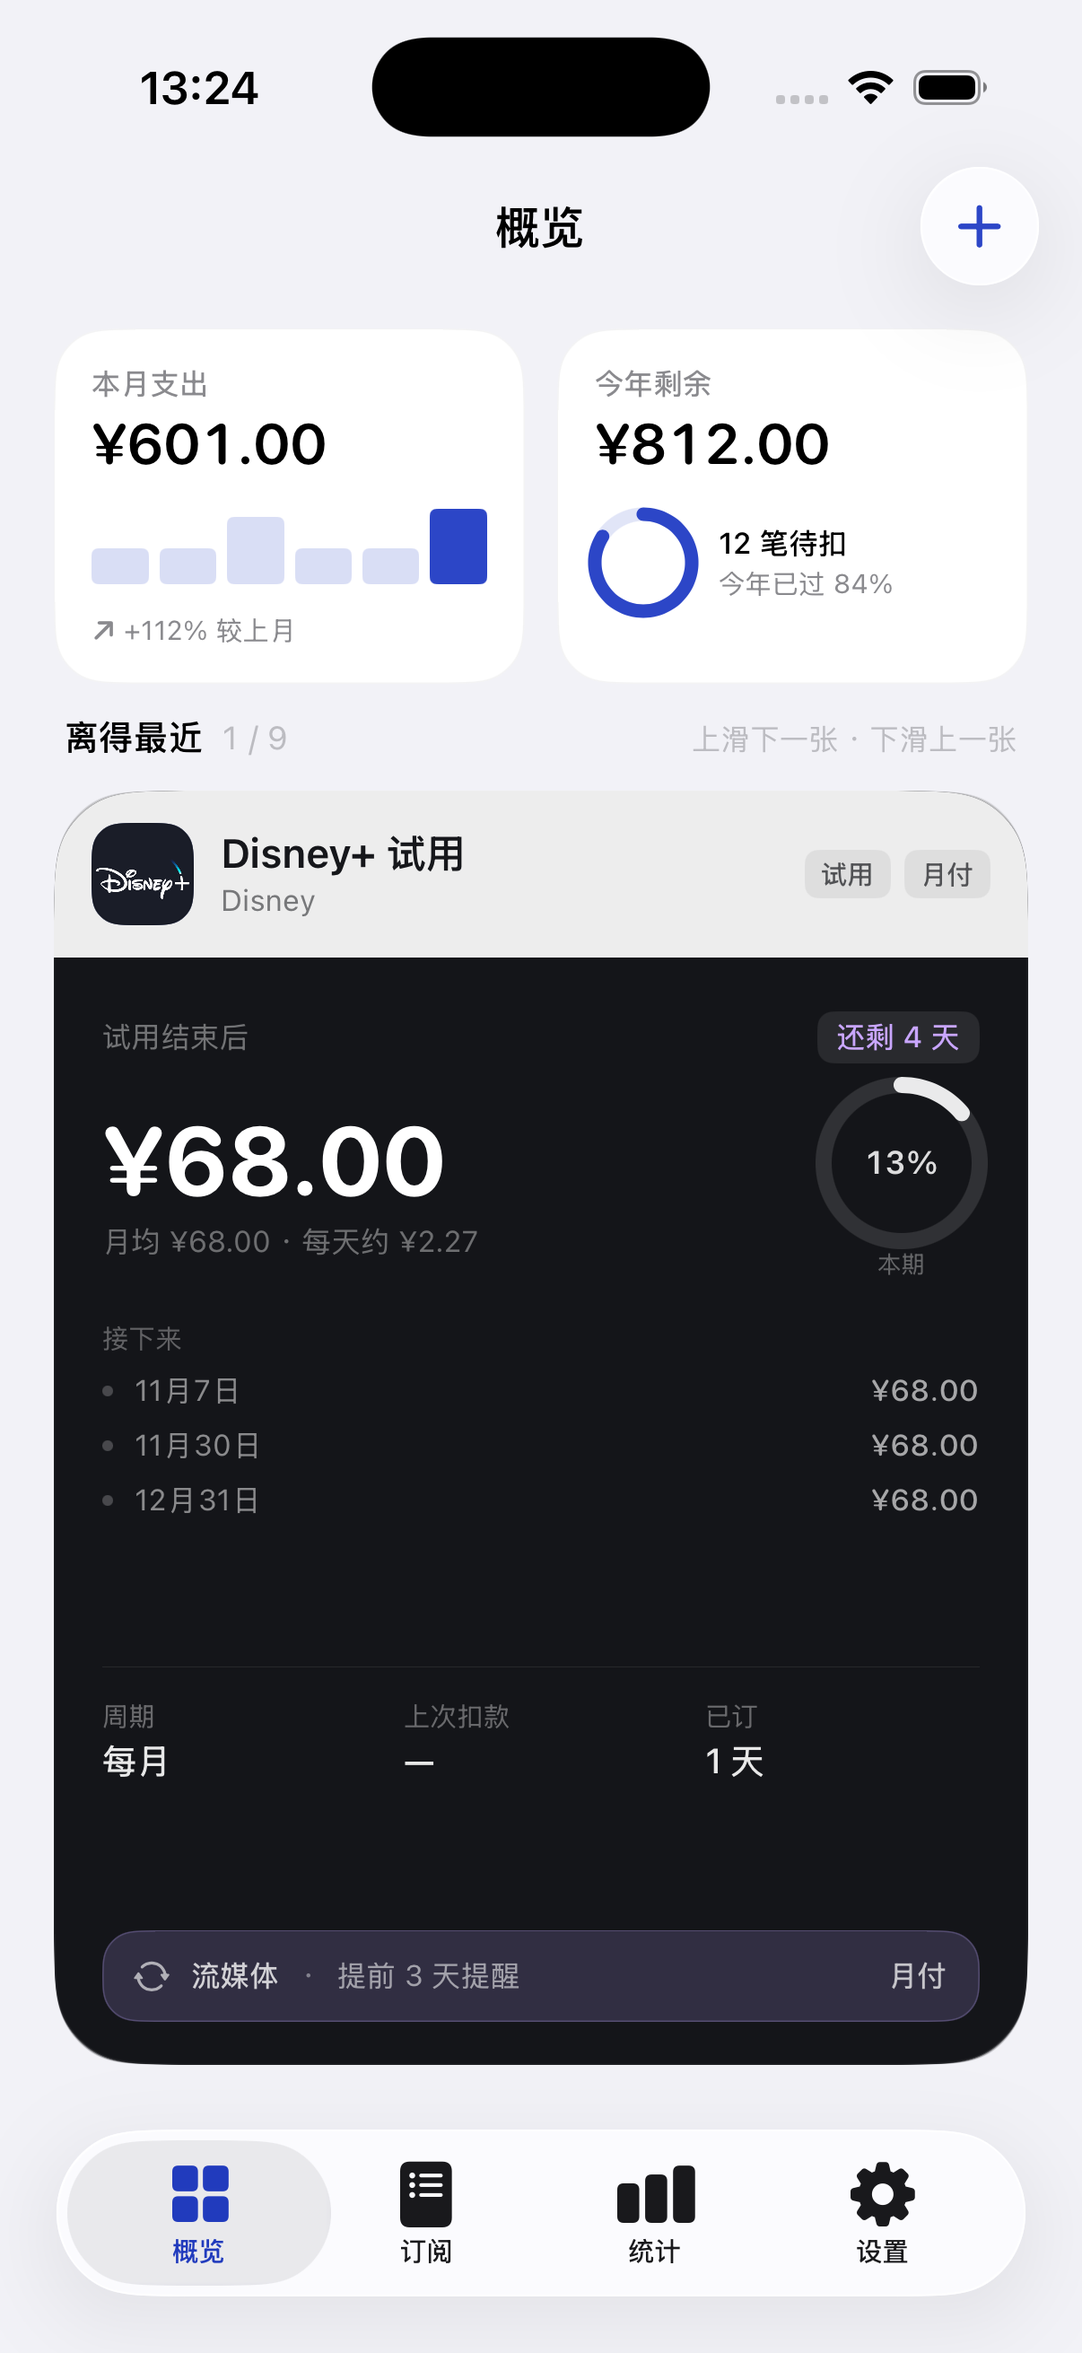
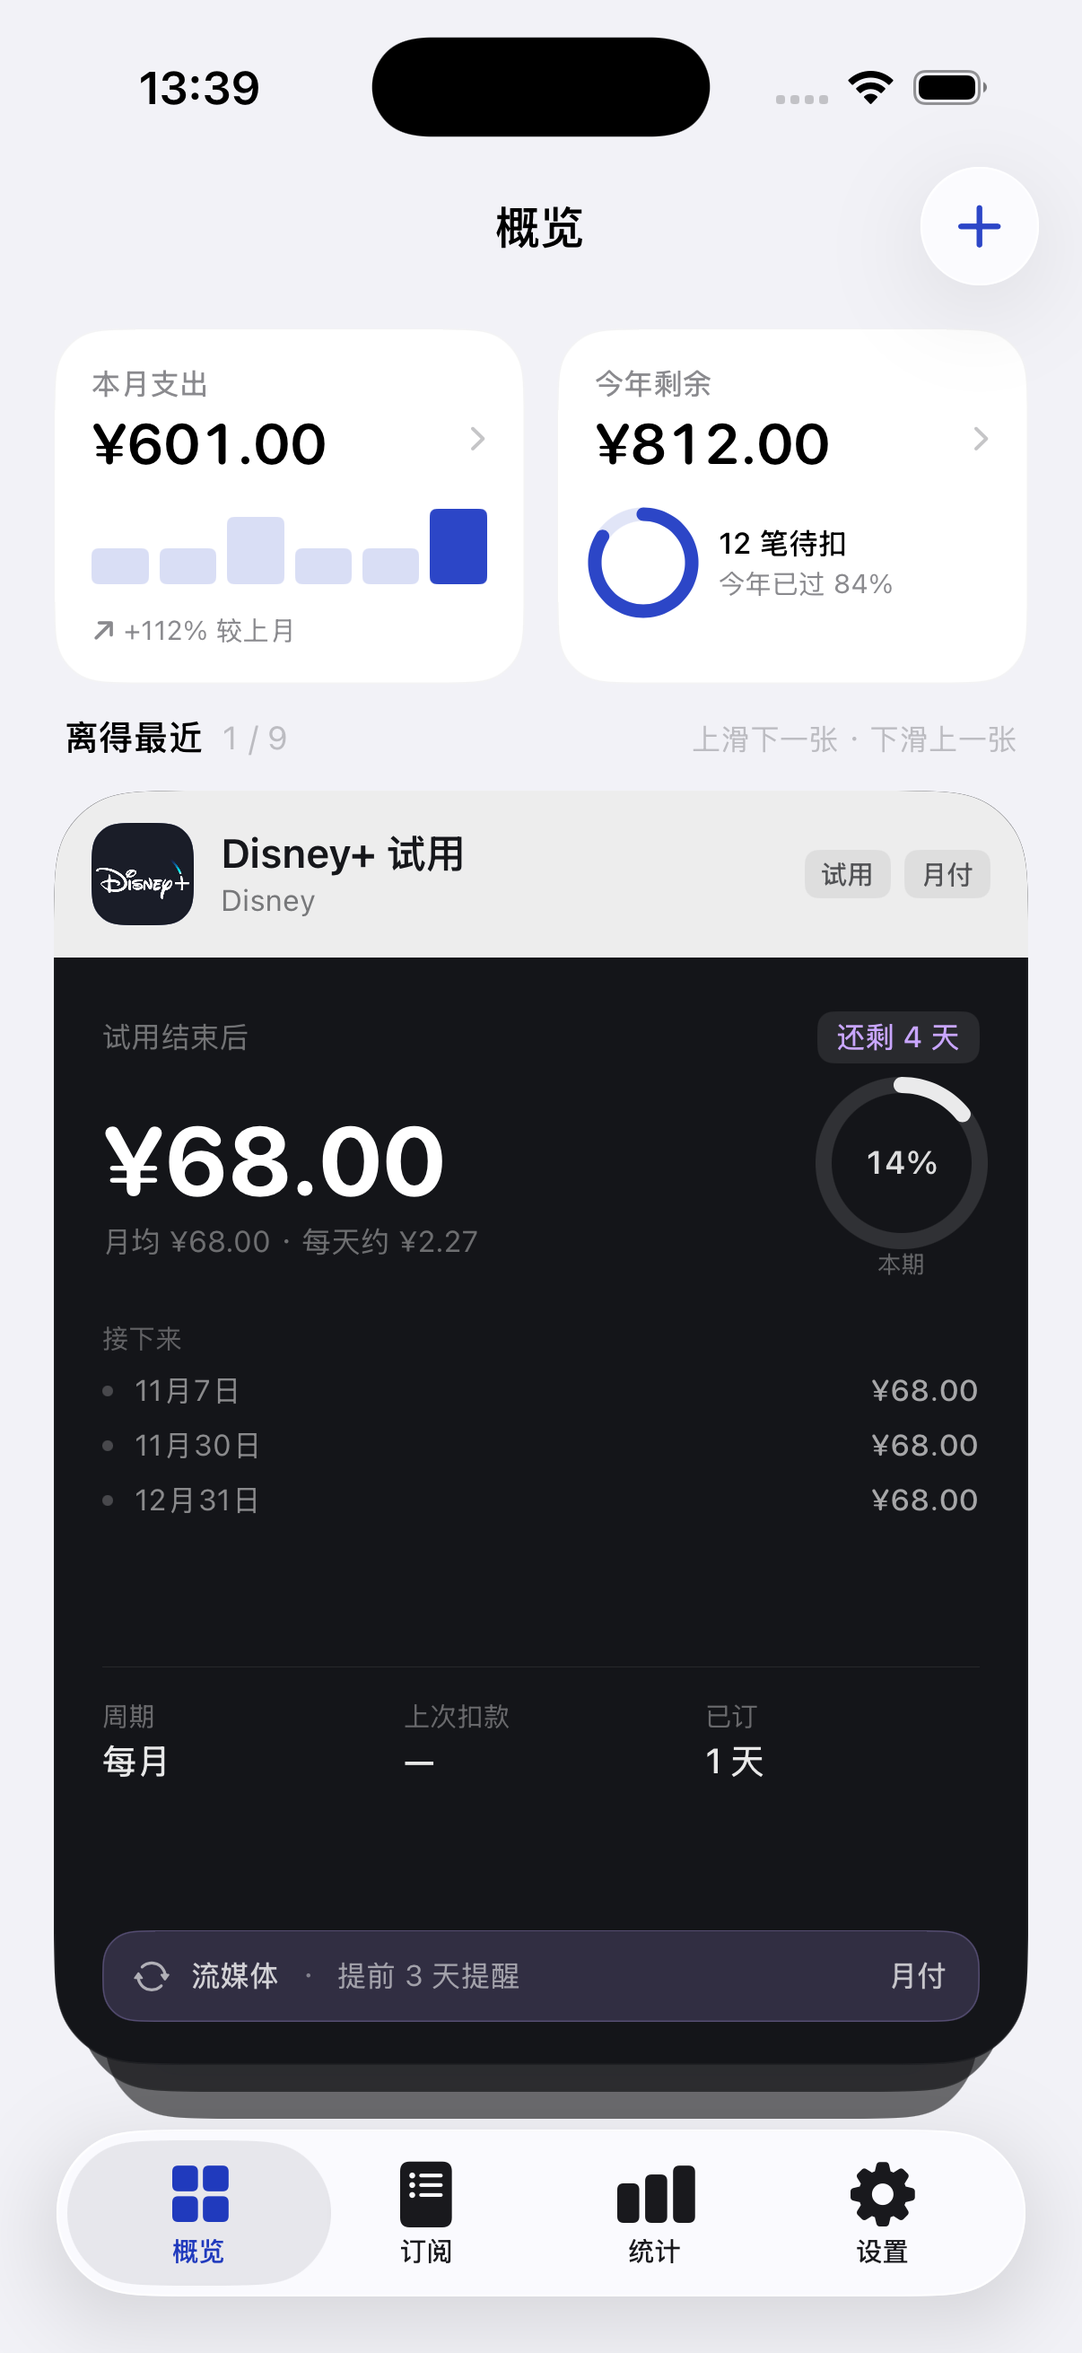
fix(home): 回滚 UIKit 卡片叠，修复滑动重叠闪烁
v1.3.0 的 UIViewRepresentable 重写引入严重 bug：窗口基于整数 index 而
position 是连续值，拖动跨整数时卡片 transform 错乱，出现不显示新卡片、
透明卡重叠、闪烁。

回滚到 v1.2.0 的 SwiftUI 版 SubscriptionDeck（逻辑正确），并补 ZStack 显式
高度避免露边被裁。正确性优先于帧率。

版本 1.4.1（build 17），56 单测全绿。

Changed region(s): [[0.092, 0.865, 0.9204, 0.9268], [0.1841, 0.0309, 0.2454, 0.0618]]

diff --git a/packages/WSubscriptionKit/Sources/WSFeatures/Dashboard/DashboardView.swift b/packages/WSubscriptionKit/Sources/WSFeatures/Dashboard/DashboardView.swift
@@ -173,198 +173,120 @@ public struct HomeView: View {
 
 // MARK: - 卡片叠
 
-/// 独立成一个视图。卡片叠用 UIKit 驱动：`UIPanGestureRecognizer` 每帧直接改 `layer.transform`
-/// （Core Animation 合成），绕过 SwiftUI 的视图 diff 管线，ProMotion 屏可跑满 120Hz。
-/// 卡片本身仍是 SwiftUI（`UIHostingController`），只是「拖动/翻页」这个高频操作交给 UIKit。
-@MainActor
-private struct SubscriptionDeck: UIViewRepresentable {
+private struct SubscriptionDeck: View {
     let items: [Subscription]
     @Binding var index: Int
     let onSelect: (Subscription) -> Void
 
+    @Environment(\.colorScheme) private var colorScheme
+    @State private var position: CGFloat = 0
+    @State private var dragStart: CGFloat?
+    /// 后面的卡向下错开的距离：堆叠在底部露边
     private let stackGap: CGFloat = 10
 
-    func makeCoordinator() -> Coordinator {
-        Coordinator(items: items, index: $index, onSelect: onSelect, stackGap: stackGap)
-    }
-
-    func makeUIView(context: Context) -> DeckView {
-        let view = DeckView(coordinator: context.coordinator)
-        view.rebuild()
-        return view
-    }
-
-    func updateUIView(_ view: DeckView, context: Context) {
-        view.coordinator.items = items
-        view.coordinator.onSelect = onSelect
-        view.coordinator.isDark = context.environment.colorScheme == .dark
-        view.rebuild()
-    }
-
-    // MARK: - UIKit 卡片叠视图
-
-    @MainActor
-    final class DeckView: UIView {
-        let coordinator: Coordinator
-        var cardViews: [(container: UIView, hosting: UIHostingController<SubscriptionDeckCard>, dimLayer: CALayer)] = []
-
-        init(coordinator: Coordinator) {
-            self.coordinator = coordinator
-            super.init(frame: .zero)
-            clipsToBounds = true
-            isMultipleTouchEnabled = false
-            backgroundColor = .clear
-
-            let pan = UIPanGestureRecognizer(target: coordinator, action: #selector(Coordinator.handlePan(_:)))
-            pan.maximumNumberOfTouches = 1
-            addGestureRecognizer(pan)
-        }
-        required init?(coder: NSCoder) { fatalError() }
-
-        override func layoutSubviews() {
-            super.layoutSubviews()
-            coordinator.cardHeight = max(300, bounds.height - coordinator.stackGap * 2.4)
-            applyTransforms(animated: false)
-        }
-
-        func rebuild() {
-            cardViews.forEach { $0.hosting.view.removeFromSuperview() }
-            cardViews = []
-            let indices = coordinator.visibleIndices
-            for i in indices {
-                let item = coordinator.items[i]
-                let card = SubscriptionDeckCard(subscription: item, isDark: coordinator.isDark)
-                let hosting = UIHostingController(rootView: card)
-                hosting.view.backgroundColor = .clear
-                let container = UIView()
-                container.backgroundColor = .clear
-                container.clipsToBounds = true
-                container.layer.cornerRadius = 32
-                container.layer.cornerCurve = .continuous
-                container.addSubview(hosting.view)
-                // 压黑层
-                let dim = CALayer()
-                dim.backgroundColor = UIColor.black.cgColor
-                dim.cornerRadius = 32
-                dim.cornerCurve = .continuous
-                dim.isHidden = true
-                container.layer.addSublayer(dim)
-                // 后面的卡先加（在下面），当前卡最后加（在上面）
-                addSubview(container)
-                cardViews.append((container, hosting, dim))
-            }
-            setNeedsLayout()
-            layoutIfNeeded()
-            // 点击进详情（只响应当前卡）
-            let tap = UITapGestureRecognizer(target: coordinator, action: #selector(Coordinator.handleTap(_:)))
-            addGestureRecognizer(tap)
-        }
-
-        /// 层级：用 subview 顺序表达（bringSubviewToFront）。
-        /// 上滑时当前卡最上；下滑返回时上一张升到最上。后面的卡按距离排在下面。
-        func arrangeZOrder() {
-            let current = coordinator.index.wrappedValue
-            let returning = coordinator.position < CGFloat(current)
-            // 先全部移到最底，再按「从后往前」的顺序叠上来
-            for entry in cardViews { sendSubviewToBack(entry.container) }
-            for (i, entry) in cardViews.enumerated() {
-                let itemIndex = coordinator.visibleIndices[i]
-                if itemIndex == current { bringSubviewToFront(entry.container) }
-                else if itemIndex == current - 1, returning { bringSubviewToFront(entry.container) }
-            }
-        }
-
-        func applyTransforms(animated: Bool, completion: ((Bool) -> Void)? = nil) {
-            let height = coordinator.cardHeight
-            let width = bounds.width
-            let gap = coordinator.stackGap
-            for (i, entry) in cardViews.enumerated() {
-                let itemIndex = coordinator.visibleIndices[i]
-                let d = CGFloat(itemIndex) - coordinator.position
-                let container = entry.container
-                container.frame = CGRect(x: 0, y: 0, width: width, height: height)
-                entry.hosting.view.frame = container.bounds
-                entry.dimLayer.frame = container.bounds
-
-                // scaleX / offsetY / opacity —— 全部写进 layer，Core Animation 合成
-                let scaleX = d >= 0 ? 1 - 0.05 * min(2, d) : 1
-                let offsetY: CGFloat = d >= 0 ? gap * d : d * height
-                let opacity = d >= 0 ? max(0.24, 1 - 0.42 * min(2, d)) : 1
-
-                let transform = CGAffineTransform(translationX: 0, y: offsetY)
-                    .scaledBy(x: scaleX, y: 1)
-                let animations = {
-                    container.layer.transform = CATransform3DMakeAffineTransform(transform)
-                    container.layer.opacity = Float(opacity)
-                    entry.hosting.view.layer.transform = CATransform3DIdentity
-                    entry.hosting.view.layer.opacity = 1
-                    // 后面的卡叠一层黑（d > 0）
-                    entry.dimLayer.isHidden = d <= 0
-                    entry.dimLayer.opacity = d > 0 ? Float(0.22 * min(2, d)) : 0
-                    // 层级：下滑返回时上一张在最上
-                    self.arrangeZOrder()
-                }
-                if animated {
-                    UIView.animate(withDuration: 0.36, delay: 0,
-                                   usingSpringWithDamping: 0.9,
-                                   initialSpringVelocity: 0,
-                                   options: [.allowUserInteraction, .beginFromCurrentState],
-                                   animations: animations, completion: completion)
-                } else {
-                    animations()
-                    completion?(true)
+    var body: some View {
+        GeometryReader { proxy in
+            let height = max(300, proxy.size.height - stackGap * 2.4)
+            ZStack(alignment: .top) {
+                ForEach(visible, id: \.item.id) { entry in
+                    card(entry, height: height)
                 }
             }
+            // 显式给 ZStack 一个确定的高度（= 容器高度），否则它只撑到卡片高度，
+            // 露边卡向下偏移露出的部分会被 clipped 裁掉
+            .frame(maxWidth: .infinity, maxHeight: .infinity, alignment: .top)
+            .frame(height: proxy.size.height, alignment: .top)
+            .clipped()
+            .contentShape(Rectangle())
+            .gesture(dragGesture)
+            .onAppear { cardHeight = height }
+            .onChange(of: height) { _, newValue in cardHeight = newValue }
         }
     }
 
-    // MARK: - Coordinator
+    /// 窗口以已提交的 index 为基准：拖动与翻页动画过程中不增删视图。
+    private var visible: [(item: Subscription, index: Int)] {
+        guard !items.isEmpty else { return [] }
+        let lower = max(0, index - 1)
+        let upper = min(items.count - 1, index + 2)
+        guard lower <= upper else { return [] }
+        return (lower...upper).map { (items[$0], $0) }
+    }
 
-    @MainActor
-    final class Coordinator: NSObject {
-        var items: [Subscription]
-        var index: Binding<Int>
-        var onSelect: (Subscription) -> Void
-        let stackGap: CGFloat
+    private func card(_ entry: (item: Subscription, index: Int), height: CGFloat) -> some View {
+        let i = entry.index
+        // d 只由 position 决定：0 = 就位，正数 = 堆叠在下面，负数 = 已翻走
+        let d = CGFloat(i) - position
+        return SubscriptionDeckCard(subscription: entry.item, isDark: colorScheme == .dark)
+            .equatable()
+            .frame(height: height)
+            // 后面的卡逐渐淡出：整卡 opacity 只做 GPU 合成（卡片 body 已静态，不触发重算），
+            // 同时叠一层黑表达「在下面的层次」。两个都是纯合成，不掉帧。
+            .opacity(stackOpacity(d))
+            .overlay {
+                if d > 0 {
+                    RoundedRectangle(cornerRadius: 32, style: .continuous)
+                        .fill(.black.opacity(0.22 * Double(min(2, d))))
+                        .allowsHitTesting(false)
+                }
+            }
+            .scaleEffect(x: scaleX(d), y: 1, anchor: .top)
+            .offset(y: offset(d, height: height))
+            .zIndex(zIndex(for: i))
+            .allowsHitTesting(i == index)
+            .onTapGesture { if i == index { onSelect(entry.item) } }
+    }
 
-        var isDark: Bool = false
-        var position: CGFloat = 0
-        var cardHeight: CGFloat = 420
-        private var dragStartPosition: CGFloat = 0
-        private var dragStartY: CGFloat = 0
+    // MARK: 变换：d 的单一连续函数（没有 index 分支，这是消除跳动的关键）
 
-        init(items: [Subscription], index: Binding<Int>, onSelect: @escaping (Subscription) -> Void, stackGap: CGFloat) {
-            self.items = items
-            self.index = index
-            self.onSelect = onSelect
-            self.stackGap = stackGap
-        }
+    /// 后面的卡逐个淡出：第一张 0.66，第二张 0.30，淡进背景，层次清晰。
+    private func stackOpacity(_ d: CGFloat) -> Double {
+        guard d > 0 else { return 1 }
+        return max(0.24, 1 - 0.42 * Double(min(2, d)))
+    }
 
-        var visibleIndices: [Int] {
-            guard !items.isEmpty else { return [] }
-            let current = index.wrappedValue
-            let lower = max(0, current - 1)
-            let upper = min(items.count - 1, current + 2)
-            guard lower <= upper else { return [] }
-            return Array(lower...upper)
-        }
+    /// 堆叠中的卡只横向收窄（不缩高度）：
+    /// 高度不变 + 向下偏移，底部才能露出一条边；等比缩小会把露边抵消掉。
+    private func scaleX(_ d: CGFloat) -> CGFloat {
+        d >= 0 ? 1 - 0.05 * min(2, d) : 1
+    }
 
-        @objc func handlePan(_ gesture: UIPanGestureRecognizer) {
-            guard let view = gesture.view as? DeckView else { return }
-            switch gesture.state {
-            case .began:
-                dragStartPosition = position
-                dragStartY = gesture.translation(in: view).y
-            case .changed:
-                let dy = gesture.translation(in: view).y - dragStartY
-                let delta = -dy / max(1, cardHeight)
-                position = rubberBand(dragStartPosition + delta)
-                view.applyTransforms(animated: false)
-            case .ended, .cancelled:
-                let translation = -gesture.translation(in: view).y / max(1, cardHeight)
-                let velocity = gesture.velocity(in: view).y
-                let predicted = -velocity * 0.25 / max(1, cardHeight)
-                let base = dragStartPosition.rounded()
+    /// d >= 0：堆叠的卡向下错开 stackGap，底部露边；
+    /// d < 0：翻走的卡按 1:1 跟手向上飞出（d 每减 1，位移正好一整张卡高）。
+    private func offset(_ d: CGFloat, height: CGFloat) -> CGFloat {
+        d >= 0 ? stackGap * d : d * height
+    }
+
+    /// 正在往回翻（下滑，position 小于当前 index）时，从上方回来的那张卡必须盖在当前卡之上，
+    /// 否则它会从当前卡「下面」滑出来，看起来很奇怪。
+    /// 上滑时当前卡始终在最上，飞走后露出下一张。
+    private var returning: Bool { position < CGFloat(index) }
+
+    private func zIndex(for i: Int) -> Double {
+        if i == index { return returning ? 90 : 100 }
+        if i == index - 1 { return returning ? 110 : 80 }
+        if i < index { return 80 }
+        return Double(80 - (i - index))
+    }
+
+    // MARK: 手势
+
+    private var dragGesture: some Gesture {
+        DragGesture(minimumDistance: 0)
+            .onChanged { value in
+                if dragStart == nil { dragStart = position }
+                let start = dragStart ?? position
+                position = rubberBand(start - value.translation.height / max(1, cardHeight))
+            }
+            .onEnded { value in
+                let start = dragStart ?? position
+                dragStart = nil
+
+                // 位移过卡片高度的 18%，或快速一甩（预测过 45%）才翻页
+                let translation = -value.translation.height / max(1, cardHeight)
+                let predicted = -value.predictedEndTranslation.height / max(1, cardHeight)
+                let base = start.rounded()
+
                 var target = base
                 if translation > 0.18 || predicted > 0.45 {
                     target = base + 1
@@ -372,37 +294,26 @@ private struct SubscriptionDeck: UIViewRepresentable {
                     target = base - 1
                 }
                 target = min(max(0, target), CGFloat(max(0, items.count - 1)))
-                position = target
-                view.applyTransforms(animated: true) { _ in
-                    let settled = Int(self.position.rounded())
-                    if settled != self.index.wrappedValue {
-                        DispatchQueue.main.async { self.index.wrappedValue = settled }
-                    }
-                }
-            default:
-                break
-            }
-        }
 
-        @objc func handleTap(_ gesture: UITapGestureRecognizer) {
-            let point = gesture.location(in: gesture.view)
-            guard let view = gesture.view as? DeckView else { return }
-            // 只响应当前卡
-            let current = index.wrappedValue
-            for (i, entry) in view.cardViews.enumerated() where visibleIndices[i] == current {
-                if entry.container.frame.contains(point) {
-                    onSelect(items[current])
-                    return
+                withAnimation(.spring(response: 0.36, dampingFraction: 0.9)) {
+                    position = target
+                } completion: {
+                    // index 只在动画彻底落位后提交：
+                    // 窗口、层级、页码计数都不在拖动中途变化
+                    let settled = Int(position.rounded())
+                    if settled != index { index = settled }
                 }
             }
-        }
+    }
 
-        private func rubberBand(_ value: CGFloat) -> CGFloat {
-            let maxIndex = CGFloat(max(0, items.count - 1))
-            if value < 0 { return value * 0.28 }
-            if value > maxIndex { return maxIndex + (value - maxIndex) * 0.28 }
-            return value
-        }
+    /// 手指位移换算成 position 的基准高度（拖动开始时记一次）
+    @State private var cardHeight: CGFloat = 420
+
+    private func rubberBand(_ value: CGFloat) -> CGFloat {
+        let maxIndex = CGFloat(max(0, items.count - 1))
+        if value < 0 { return value * 0.28 }
+        if value > maxIndex { return maxIndex + (value - maxIndex) * 0.28 }
+        return value
     }
 }
 

diff --git a/docs/开发方案.md b/docs/开发方案.md
@@ -1209,3 +1209,13 @@ SwiftUI 的 `@State position` 每帧更新会触发整个 `SubscriptionDeck.body
   - 「关于」区显示真实版本号（从 Bundle 读）+ 作者 WuBarlynn + GitHub 仓库链接。
   - 行按钮加 WSPressButtonStyle 按压反馈（缩放+变暗），修复「点了没反应」。
 - 数据落盘仍是加密 .vault 格式（磁盘密文无害），导出/导入用明文 JSON 便于迁移。
+
+### 17.22 回滚 UIKit 卡片叠，修复滑动 bug（v1.4.1）
+
+v1.3.0 为追求 120Hz 把卡片叠改成了 `UIViewRepresentable` + `UIPanGestureRecognizer`，但引入严重 bug：窗口基于整数 `index` 而 `position` 是连续值，拖动跨过整数时卡片 transform 错乱，出现「不显示新卡片、透明卡重叠、闪烁」。
+
+根因：UIKit 版里 `visibleIndices` 固定取 `index-1...index+2`，但 `position` 拖动中已超过 1，导致 `d = itemIndex - position` 把本应「堆叠」的卡算成「翻走」（d<0），多张卡同时往上飞并透明重叠。
+
+修复：回滚到 v1.2.0 的 SwiftUI 版 `SubscriptionDeck`（逻辑正确、反复验证无滑动 bug），并补上 ZStack 显式高度（避免露边被 clipped 裁掉）。放弃 UIKit 直驱方案——正确性优先于帧率，120Hz 优化在保证不引入 bug 的前提下再单独做。
+
+损失：帧率回落到 SwiftUI 手势驱动的水平（约 60Hz）。滑动正确性、堆叠露边、淡紫横条、圆角全部恢复。
